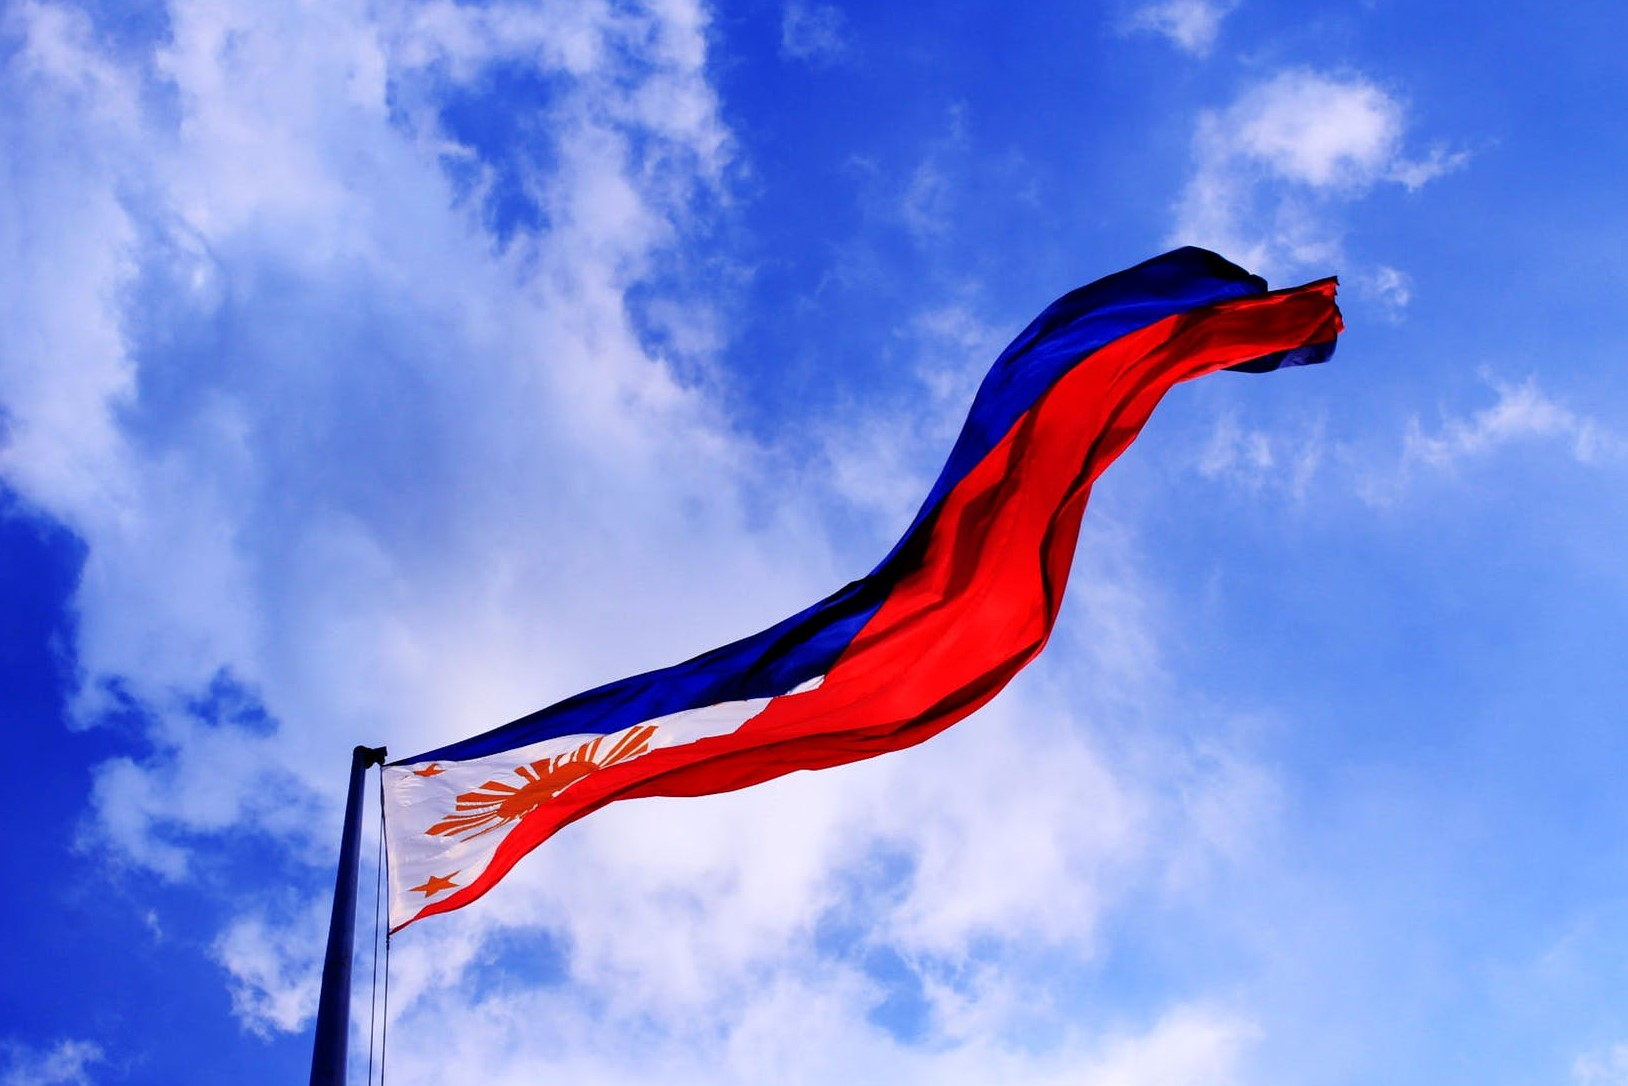
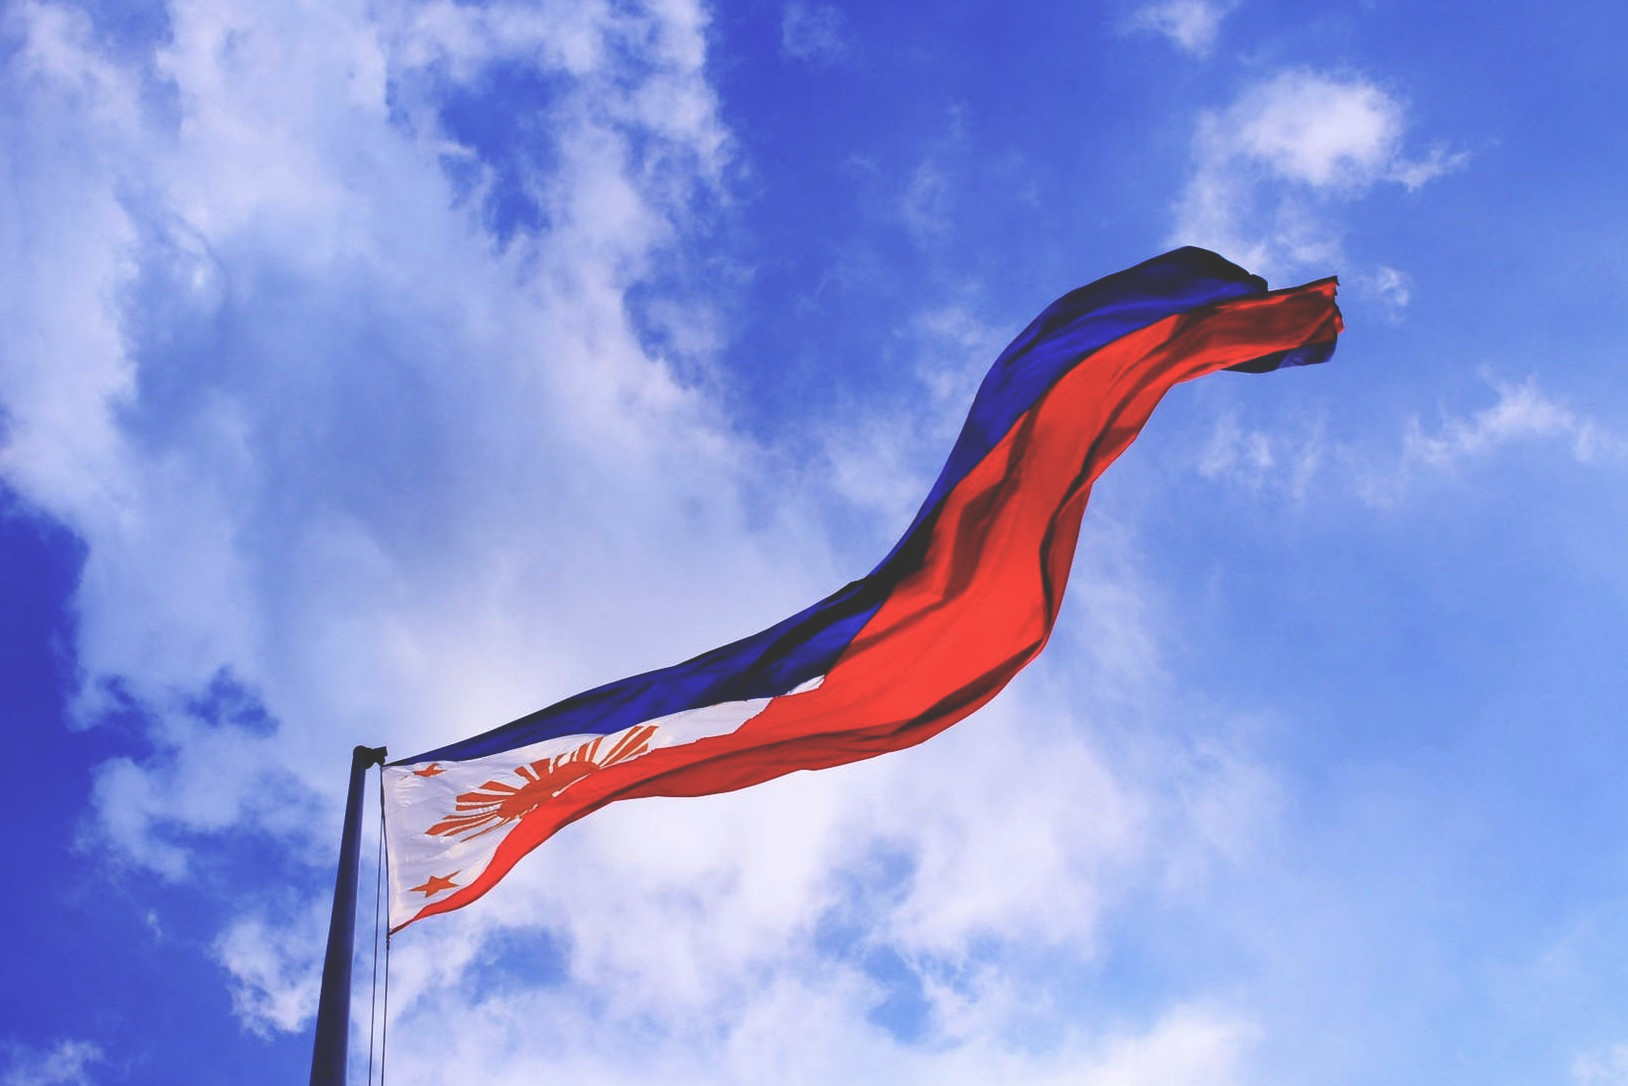
Updates

Changed region(s): [[0.0, 0.0, 1.0, 1.0], [0.2764, 0.0608, 0.3378, 0.2127]]

diff --git a/about.html b/about.html
@@ -10,6 +10,7 @@
   <link rel="stylesheet" type="text/css" media="screen and (min-device-width: 720px)" href="css/about/about-desktop.css">
   <link rel="stylesheet" type="text/css" href="//fonts.googleapis.com/css?family=Open+Sans">
   <link href='https://fonts.googleapis.com/css?family=Oswald' rel='stylesheet'>
+  <link rel="stylesheet" href="https://unpkg.com/aos@next/dist/aos.css" /> <!-- animation on scroll-->
   <link rel="stylesheet" href="https://cdnjs.cloudflare.com/ajax/libs/font-awesome/5.11.2/css/all.css">
   <link rel="icon" href="img/logo.png" type="image/png">
   <title>OU Filipino Student Association</title>
@@ -44,25 +45,25 @@
     </div>
   </div>
 
-  <div class="header">
+  <div class="header" data-aos="fade-in">
     <div class="overlay">
-      <p>About Us</p>
+      <p data-aos="fade-right">About Us</p>
     </div>
   </div>
-  <div class="about-us">
-    <div class="exec-pic">
+  <div class="about-us" data-aos="fade-in">
+    <div class="exec-pic" data-aos="fade-right">
       <img src="img/exec.jpg" alt=""></img>
     </div>
-    <div class="text">
+    <div class="text" data-aos="fade-left">
       Lorem ipsum dolor sit amet, consectetur adipisicing elit. Vero magnam voluptatum et iure ipsam recusandae laboriosam? Modi velit vel aut quo cupiditate labore placeat numquam veritatis et. Saepe totam quam ab quae suscipit a eligendi culpa quibusdam quasi praesentium. Architecto molestiae, consequatur cumque esse facere asperiores at laudantium ea ullam, harum laborum sapiente optio explicabo doloribus commodi mollitia soluta iusto perferendis atque est! Quae fugiat ut praesentium mollitia, iste dolore quam ea nemo sit quaerat animi, similique error temporibus maiores, corrupti aspernatur alias quis quos. Fugit impedit laboriosam iure quae non odio deserunt magnam maiores molestias temporibus consequatur nihil numquam, aperiam accusamus, adipisci est delectus, cupiditate! Quisquam fugit porro facilis, itaque dolore ipsam accusamus, minima quas hic cum, soluta libero facere quos repudiandae dolores expedita officia eligendi mollitia quaerat corrupti molestias! Voluptatum quis quisquam, aut quibusdam natus iusto modi soluta in quia laborum suscipit amet eius nobis aliquam voluptas ullam ad quaerat vel. Obcaecati, voluptatum cumque illum voluptates nulla ea, libero porro at similique fugit corrupti ipsum cupiditate sint corporis numquam reprehenderit totam reiciendis. Tempore ducimus ab, explicabo molestiae ad deserunt eum molestias, eligendi id, dolores perspiciatis. Non atque quam repellat nobis. Perspiciatis est possimus corporis autem aperiam amet laborum.
     </div>
   </div>
   <div class="meet-the-exec-header">
     <div class="overlay">
-      <p> Meet the Exec <p>
+      <p data-aos="fade-right"> Meet the Exec <p>
     </div>
   </div>
-  <div class="meet-the-exec">
+  <div class="meet-the-exec" data-aos="fade-up">
     <div class="exec-image-display">
       <p>JP Aycardo</p>
       <p>President</p>
@@ -87,6 +88,16 @@
   <div class="footer">
     © 2019 OU FSA. All Rights Reserved. <br>
     Maintained by Justin Santos.<br>
-    Last Updated: 15 December 2019.<br>
+    Last Updated: 17 December 2019.<br>
   </div>
+
+  <!-- Animation on scroll scripts -->
+  <script src="https://unpkg.com/aos@next/dist/aos.js"></script>
+  <script>
+    AOS.init({
+      duration: 750,
+      easing: 'ease-out',
+      once: true,
+    });
+  </script>
 </body>

diff --git a/index.html b/index.html
@@ -10,6 +10,7 @@
   <link rel="stylesheet" type="text/css" media="screen and (min-device-width: 720px)" href="css/home/home-desktop.css">
   <link rel="stylesheet" type="text/css" href="//fonts.googleapis.com/css?family=Open+Sans">
   <link href='https://fonts.googleapis.com/css?family=Oswald' rel='stylesheet'>
+  <link rel="stylesheet" href="https://unpkg.com/aos@next/dist/aos.css" /> <!-- animation on scroll-->
   <link rel="stylesheet" href="https://cdnjs.cloudflare.com/ajax/libs/font-awesome/5.11.2/css/all.css">
   <link rel="icon" href="img/logo.png" type="image/png">
   <title>OU Filipino Student Association</title>
@@ -46,8 +47,8 @@
   </div>
 
   <!-- Homepage -->
-  <div class="home" id="home">
-    <div class="container lax" data-lax-preset="home" data-lax-anchor="#home">
+  <div class="home" data-aos="fade-in">
+    <div class="container">
       <div class="ou">The University of Oklahoma</div>
       <div class="fsa">Filipino Student Association</div>
       <div class="socials">
@@ -61,6 +62,16 @@
   <div class="footer">
     © 2019 OU FSA. All Rights Reserved. <br>
     Maintained by Justin Santos.<br>
-    Last Updated: 15 December 2019.<br>
+    Last Updated: 17 December 2019.<br>
   </div>
+
+  <!-- Animation on scroll scripts -->
+  <script src="https://unpkg.com/aos@next/dist/aos.js"></script>
+  <script>
+    AOS.init({
+      duration: 750,
+      easing: 'ease-out',
+      once: true,
+    });
+  </script>
 </body>

diff --git a/css/home/home-desktop.scss b/css/home/home-desktop.scss
@@ -24,7 +24,6 @@ $image: url("../../img/philippine-flag.jpeg");
   min-height: 100vh;
   background-repeat: no-repeat;
   background-size: cover;
-  opacity: 80%;
 
   .container {
     animation: transitionIn 1s ease-in-out;

diff --git a/css/home/home-mobile.scss b/css/home/home-mobile.scss
@@ -34,7 +34,6 @@ $image: url("../../img/philippine-flag.jpeg");
   background-repeat: no-repeat;
   background-position:center;
   background-size: cover;
-  opacity: 80%;
 
   .container {
     display: flex;

diff --git a/css/home/home-desktop.css b/css/home/home-desktop.css
@@ -18,7 +18,6 @@
   min-height: 100vh;
   background-repeat: no-repeat;
   background-size: cover;
-  opacity: 80%;
 }
 .home .container {
   animation: transitionIn 1s ease-in-out;

diff --git a/css/home/home-mobile.css b/css/home/home-mobile.css
@@ -27,7 +27,6 @@
   background-repeat: no-repeat;
   background-position: center;
   background-size: cover;
-  opacity: 80%;
 }
 .home .container {
   display: flex;
